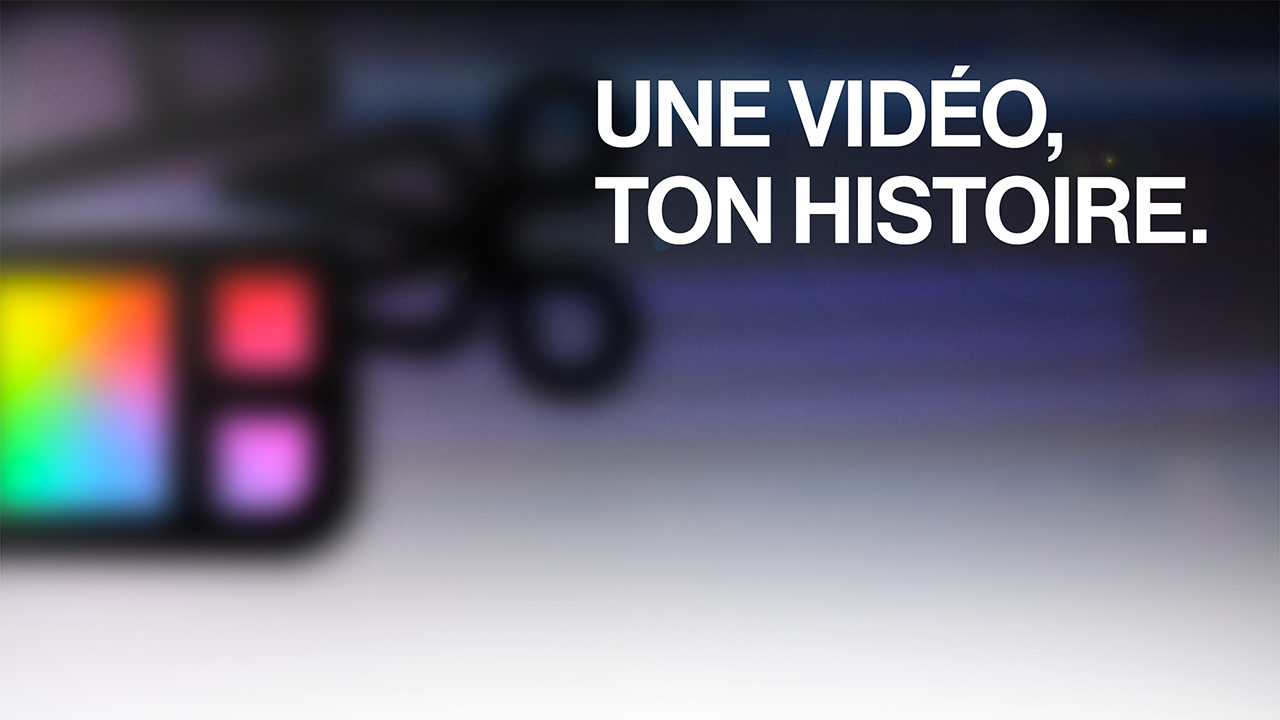
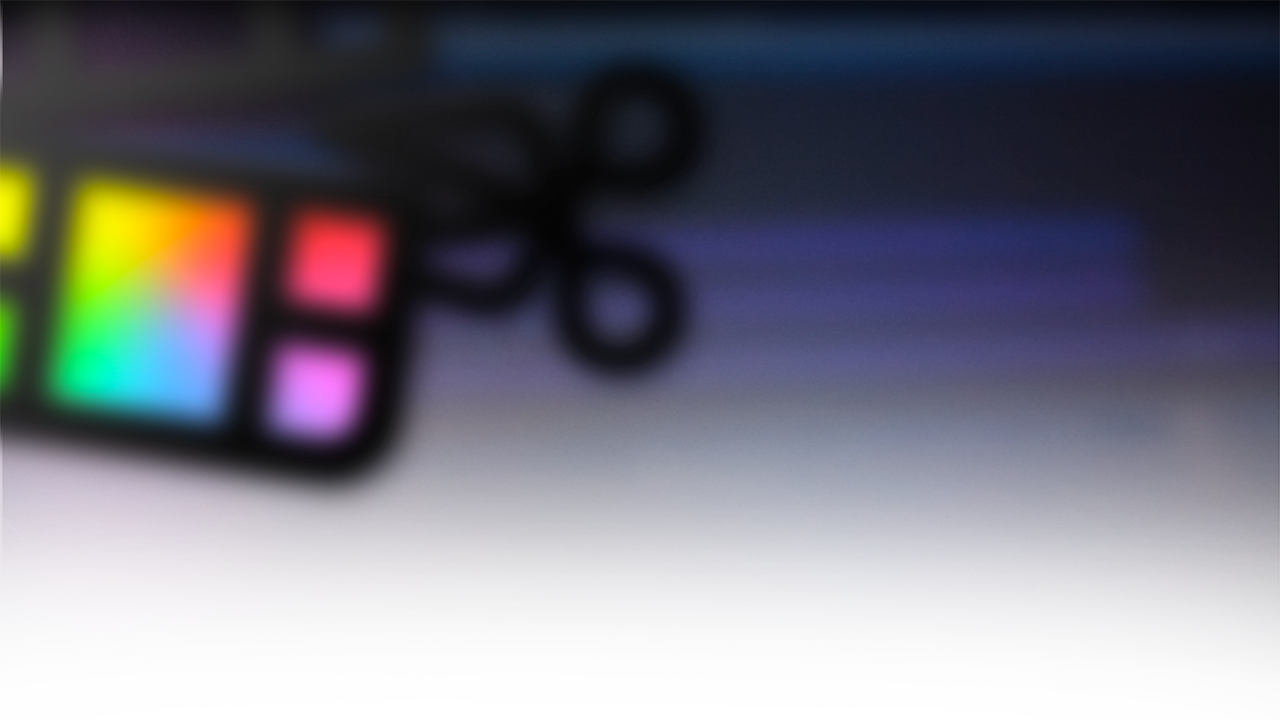
Ajout image, maj HTML et visuels de la homepage

diff --git a/index.html b/index.html
@@ -24,7 +24,7 @@
   left: 0;
   width: 100%;
   height: 100%;
-  background: linear-gradient(to bottom, rgba(0,0,0,0.8), rgba(0,0,0,0.4)); /* Dégradé ici */
+  background: linear-gradient(to bottom, rgba(0,0,0,0.7), rgba(0,0,0,0.6)); /* Dégradé ici */
   z-index: 1;
   pointer-events: none;
 
@@ -53,7 +53,19 @@
   right: 0;
   z-index: 999;
 }
+nav {
+  position: fixed;
+  width: 100%;
+  top: 0;
+  transition: top 0.3s ease;
+  z-index: 999;
+  box-sizing: border-box; /* inclut padding et border dans la largeur */
 
+}
+
+nav.hidden {
+  top: -100px; /* ou la hauteur de ta navbar */
+}
 .logo {
   font-size: 20px;
   font-weight: bold;
@@ -83,15 +95,53 @@
   display: inline-block;
   transition: background-color 0.3s ease;
 }
-
+html {
+  scroll-behavior: smooth;
+}
 .cta-button:hover {
 background-color: #5c3c92; /* Violet profond */
   color: white;
 }
-.hero img {
-   margin-top: 97px; 
+.hero {
+  position: relative;
   width: 100%;
-  height: 100vh;
+}
+.hero-profile {
+  margin-top: 2rem;
+  display: flex;
+  justify-content: flex-end; /* ALIGNE À DROITE */
+  padding-right: 3vw; /* petit décalage depuis le bord droit */
+}
+
+.hero-profile .profile-pic {
+  width: 120px;
+  height: 120px;
+  border-radius: 50%;
+  padding: 2px;
+  background: linear-gradient(135deg, #ffd972, #f9d5ec);
+}
+.full-width {
+  width: 100%;
+  height: auto;
+  display: block;
+}
+
+.hero-text {
+  position: absolute;
+  top: 10%;
+  right: 5%;
+  font-family: 'Neue Haas Grotesk Display Pro', sans-serif;
+  font-size: 120px;
+  color: white;
+  text-align: left;
+  line-height: 0.9;
+  margin: 0;
+  padding: 0;
+}
+.hero img {
+   margin-top: 100px; 
+  width: 100%;
+  height: 100%;
   object-fit: cover;
    object-position: top;
      overflow: hidden;
@@ -105,15 +155,24 @@ background-color: #5c3c92; /* Violet profond */
 
 .accroche h2 {
   font-size: 2.5rem;
-  margin-bottom: 10px;
+  margin-bottom: -20px;
   color: #ffffff;
   font-weight: 700;
   font-family: 'Poppins', sans-serif;
 }
 
+.fade-in-on-scroll {
+  opacity: 0;
+  transform: translateY(40px);
+  transition: opacity 0.8s ease-out, transform 0.8s ease-out;
+}
 
+.fade-in-on-scroll.visible {
+  opacity: 1;
+  transform: translateY(0);
+}
 .intro {
-  margin-top: -160px; /* remonte légèrement la section */
+  margin-top: -320px; /* remonte légèrement la section */
   
   padding: 80px 20px 60px 20px;
   text-align: center;
@@ -125,7 +184,7 @@ background-color: #5c3c92; /* Violet profond */
 .intro h2 {
   
   font-size: 3.5rem;
-  margin-bottom: 00px;
+  margin-bottom: 20px;
 }
 .intro h3 {
  
@@ -559,8 +618,15 @@ object-fit: cover;
 <!-- NAVIGATION FIXE -->
 <header>
   <section class="hero">
-  <img src="fond-site-web-2.png" alt="Bannière Norland avec le slogan Une vidéo. Une histoire.">
- <section class="intro">
+  <img src="fond-site-web-3.png" class="full-width" alt="Bannière Norland">
+  <div class="hero-text">
+    <span>UNE VIDÉO,</span><br>
+    <span>TON HISTOIRE</span><div class="hero-profile">
+
+  </div>
+  
+</section>
+ <section class="intro fade-in-on-scroll">
   <h2>Tu es créateur de contenu ?</h2>
   <h3>Je t'aide à raconter ton histoire.</h3>
   <p>
@@ -569,27 +635,27 @@ object-fit: cover;
   </p>
   <a href="formulaire.html" class="cta-btn">Parlons de ton projet</a>
 </section>
-</section>
+
   <nav class="navbar">
     <div class="logo">Norland Production</div>
     <ul class="nav-links">
-      <li><a href="#services">Services</a></li>
-      <li><a href="#portfolio">Portfolio</a></li>
+      <li><a href="#portfolio-carousel">Portfolio</a></li>
       <li><a href="#avis">Avis</a></li>
-      <li><a href="#contact">Contact</a></li>
+      <li><a href="#services-section" class="nav-link">Services</a></li>
+      <li><a href="mailto:contact@norlandproduction.com">Contact</a></li>
     </ul>
     <a href="formulaire.html" class="cta-button">Commencer ton projet</a>
   </nav>
 </header>
 <div class="background-container">
    <div class="gradient-overlay"></div>
-  <img src="01-1.jpg" alt="fond" class="rotated-bg" />
+  <img src="01-1.jpg" class="full-width" alt="fond" class="rotated-bg" />
 </div>
  <h2 class="carousel-title">
   Ils m’ont fait<br>   confiance pour <span class="gradient-text"> raconter</span> <br>
   <span class="gradient-text"> leurs histoires:</span>
 </h2>
-<section class="carousel-section">
+<section id="portfolio-carousel" class="carousel-section">
   <div class="carousel-track">
     <div class="carousel-item active">
       <video src="https://res.cloudinary.com/der1ebjsv/video/upload/v1749091601/video1_hrkif4.mov" muted loop playsinline></video>
@@ -597,7 +663,7 @@ object-fit: cover;
       <div class="overlay">
         <h2>LORIS POKA - 47.5k abonnés</h2>
         <p>« Le premier mort à l'UFC va bientôt arriver. »</p>
-        <p>- 182k vues</p>
+        <p>- 185k vues</p>
       </div>
     </div>
     <div class="carousel-item active">
@@ -606,7 +672,7 @@ object-fit: cover;
       <div class="overlay">
         <h2>Malo Halna - 296k abonnés</h2>
         <p>« Je teste le BARBECUE japonais (Yakiniku) 🥓🇯🇵 »</p>
-        <p>- 87k vues</p>
+        <p>- 97k vues</p>
       </div>
     </div>
     <div class="carousel-item active">
@@ -624,7 +690,7 @@ object-fit: cover;
       <div class="overlay">
         <h2>Peur 2.0 - 55.1k abonnés</h2>
         <p>« L'Iceberg des MYSTÈRES Non Résolus (Partie 3 - 🔞) »</p>
-        <p>- 93k vues</p>
+        <p>- 94k vues</p>
       </div>
     </div>
   </div>
@@ -634,7 +700,7 @@ object-fit: cover;
     <button class="carousel-arrow right-arrow">&#10095;</button> <!-- flèche droite -->
   </div>
 </section>
-<section class="testimonials-section">
+<section id="avis" class="testimonials-section">
   <div class="testimonial">
     <img src="Profils/profil-loris.jpg" alt="Loris Poka">
     <p><strong>Loris Poka</strong><br><em>C’était rapide ! Magnifique la vidéo vraiment. Je suis trop fan de l’ambiance que tu mets avec le montage, t’es trop fort.</em></p>
@@ -693,7 +759,7 @@ object-fit: cover;
   </div>
 </section>
 
-<section class="process-section fade-in-on-scroll">
+<section id="services-section" class="process-section fade-in-on-scroll">
   <h2 class="section-title">Comment ça se passe ?</h2>
   <div class="process-grid">
     <div class="process-step">
@@ -725,7 +791,7 @@ object-fit: cover;
   <p>&copy; 2025 Norland Production — Monteur vidéo freelance</p>
   <div class="footer-links">
     <a href="https://www.linkedin.com/in/guillaume-kuhn-639923325/" target="_blank">LinkedIn</a>
-    <a href="norlandlemonteur@gmail.com">Email</a>
+    <a href="mailto:contact@norlandproduction.com">Email</a>
     <a href="https://youtube.com/playlist?list=PLhle_EGMzbeK1zvNvNM4Y5w_rNHPg1Tdc&si=N6FaZvIUY9SFdVjl" target="_blank">YouTube</a>
   </div>
 </footer>
@@ -809,8 +875,45 @@ const appearOnScroll = new IntersectionObserver(function(entries, observer) {
 faders.forEach(fader => {
   appearOnScroll.observe(fader);
 });
-</script>
 
+let lastScrollTop = 0;
+const navbar = document.querySelector('nav');
+
+window.addEventListener('scroll', () => {
+  const scrollTop = window.pageYOffset || document.documentElement.scrollTop;
+
+  if (scrollTop > lastScrollTop) {
+    // Scroll vers le bas → cacher navbar
+    navbar.classList.add('hidden');
+  } else {
+    // Scroll vers le haut → montrer navbar
+    navbar.classList.remove('hidden');
+  }
+
+  lastScrollTop = scrollTop <= 0 ? 0 : scrollTop; // pour éviter le scroll négatif
+});
+
+</script>
+<script>
+  const faders = document.querySelectorAll('.fade-in-on-scroll');
+
+  const appearOptions = {
+    threshold: 0.1,
+    rootMargin: '0px 0px -50px 0px'
+  };
+
+  const appearOnScroll = new IntersectionObserver(function(entries, observer) {
+    entries.forEach(entry => {
+      if (!entry.isIntersecting) return;
+      entry.target.classList.add('visible');
+      observer.unobserve(entry.target);
+    });
+  }, appearOptions);
+
+  faders.forEach(fader => {
+    appearOnScroll.observe(fader);
+  });
+</script>
   </form>
   
 </section>
